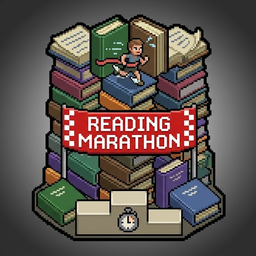
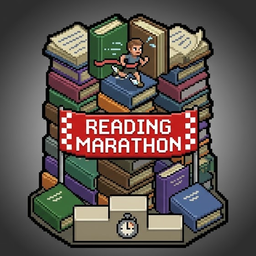
Recortar el poster al dibujo en vez de agregar barras

diff --git a/README.md b/README.md
@@ -94,5 +94,10 @@ poster=poster.png
 icon=icon.png
 ```
 
-Para regenerarlas si cambia el original: recorte cuadrado centrado a 256x256
-para el icono, y la imagen completa escalada a 512 de ancho para el poster.
+El panel de mods dibuja el poster **siempre a 200x200** (`drawTextureScaled` en
+`ModInfoPanelDesc.lua`), así que la imagen tiene que ser cuadrada o se ve
+aplastada. Ambas salen del mismo recorte: un cuadrado de 560px del original
+centrado en el dibujo (x=513, y=283, medido por bounding box del contenido, no
+del lienzo), que corta los márgenes vacíos de los costados.
+
+`preview.png` (256x256) del proyecto de Workshop sale del mismo recorte.
